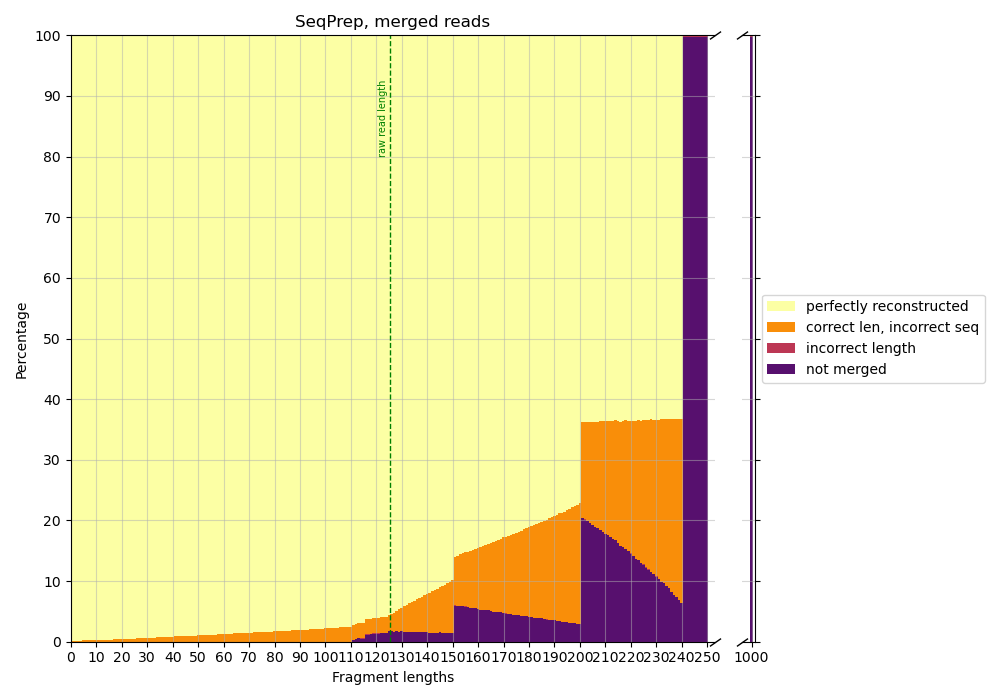
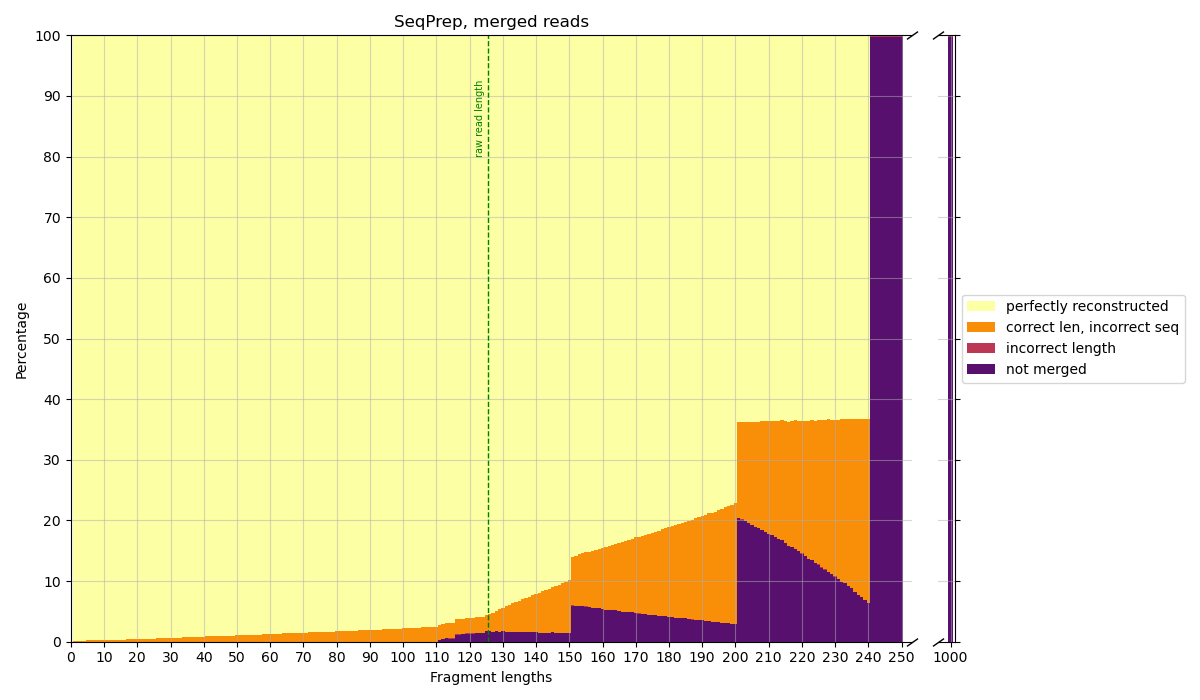
change figure size

Changed region(s): [[0.0, 0.0, 0.992, 0.99], [0.031, 0.03, 0.062, 0.06]]

diff --git a/fragment_lengths/plot_old.py b/fragment_lengths/plot_old.py
@@ -66,7 +66,7 @@ def plot_read_lengths(program, frag_len, dropped, incorrect_len,
                       correct_len_incorrect_seq, perfect, outdir):
       
     fig, (ax1, ax2) = plt.subplots(1, 2, sharey=True, facecolor='w', 
-                                   figsize=[10, 7], 
+                                   figsize=[12, 7], 
                                    gridspec_kw={'width_ratios': [0.98, 0.02]})
     
     for ax in (ax1, ax2):

diff --git a/fragment_lengths/plot.py b/fragment_lengths/plot.py
@@ -66,7 +66,7 @@ def plot_edit_distance_plot(program, frag_len, dropped_percent, edit_distances,
                             outdir):
 
     fig, (ax1, ax2) = plt.subplots(1, 2, sharey=True, facecolor='w', 
-                                   figsize=[10, 7], 
+                                   figsize=[12, 7], 
                                    gridspec_kw={'width_ratios': [0.98, 0.02]})
     labels = [
         "prefectly reconstructed", 
